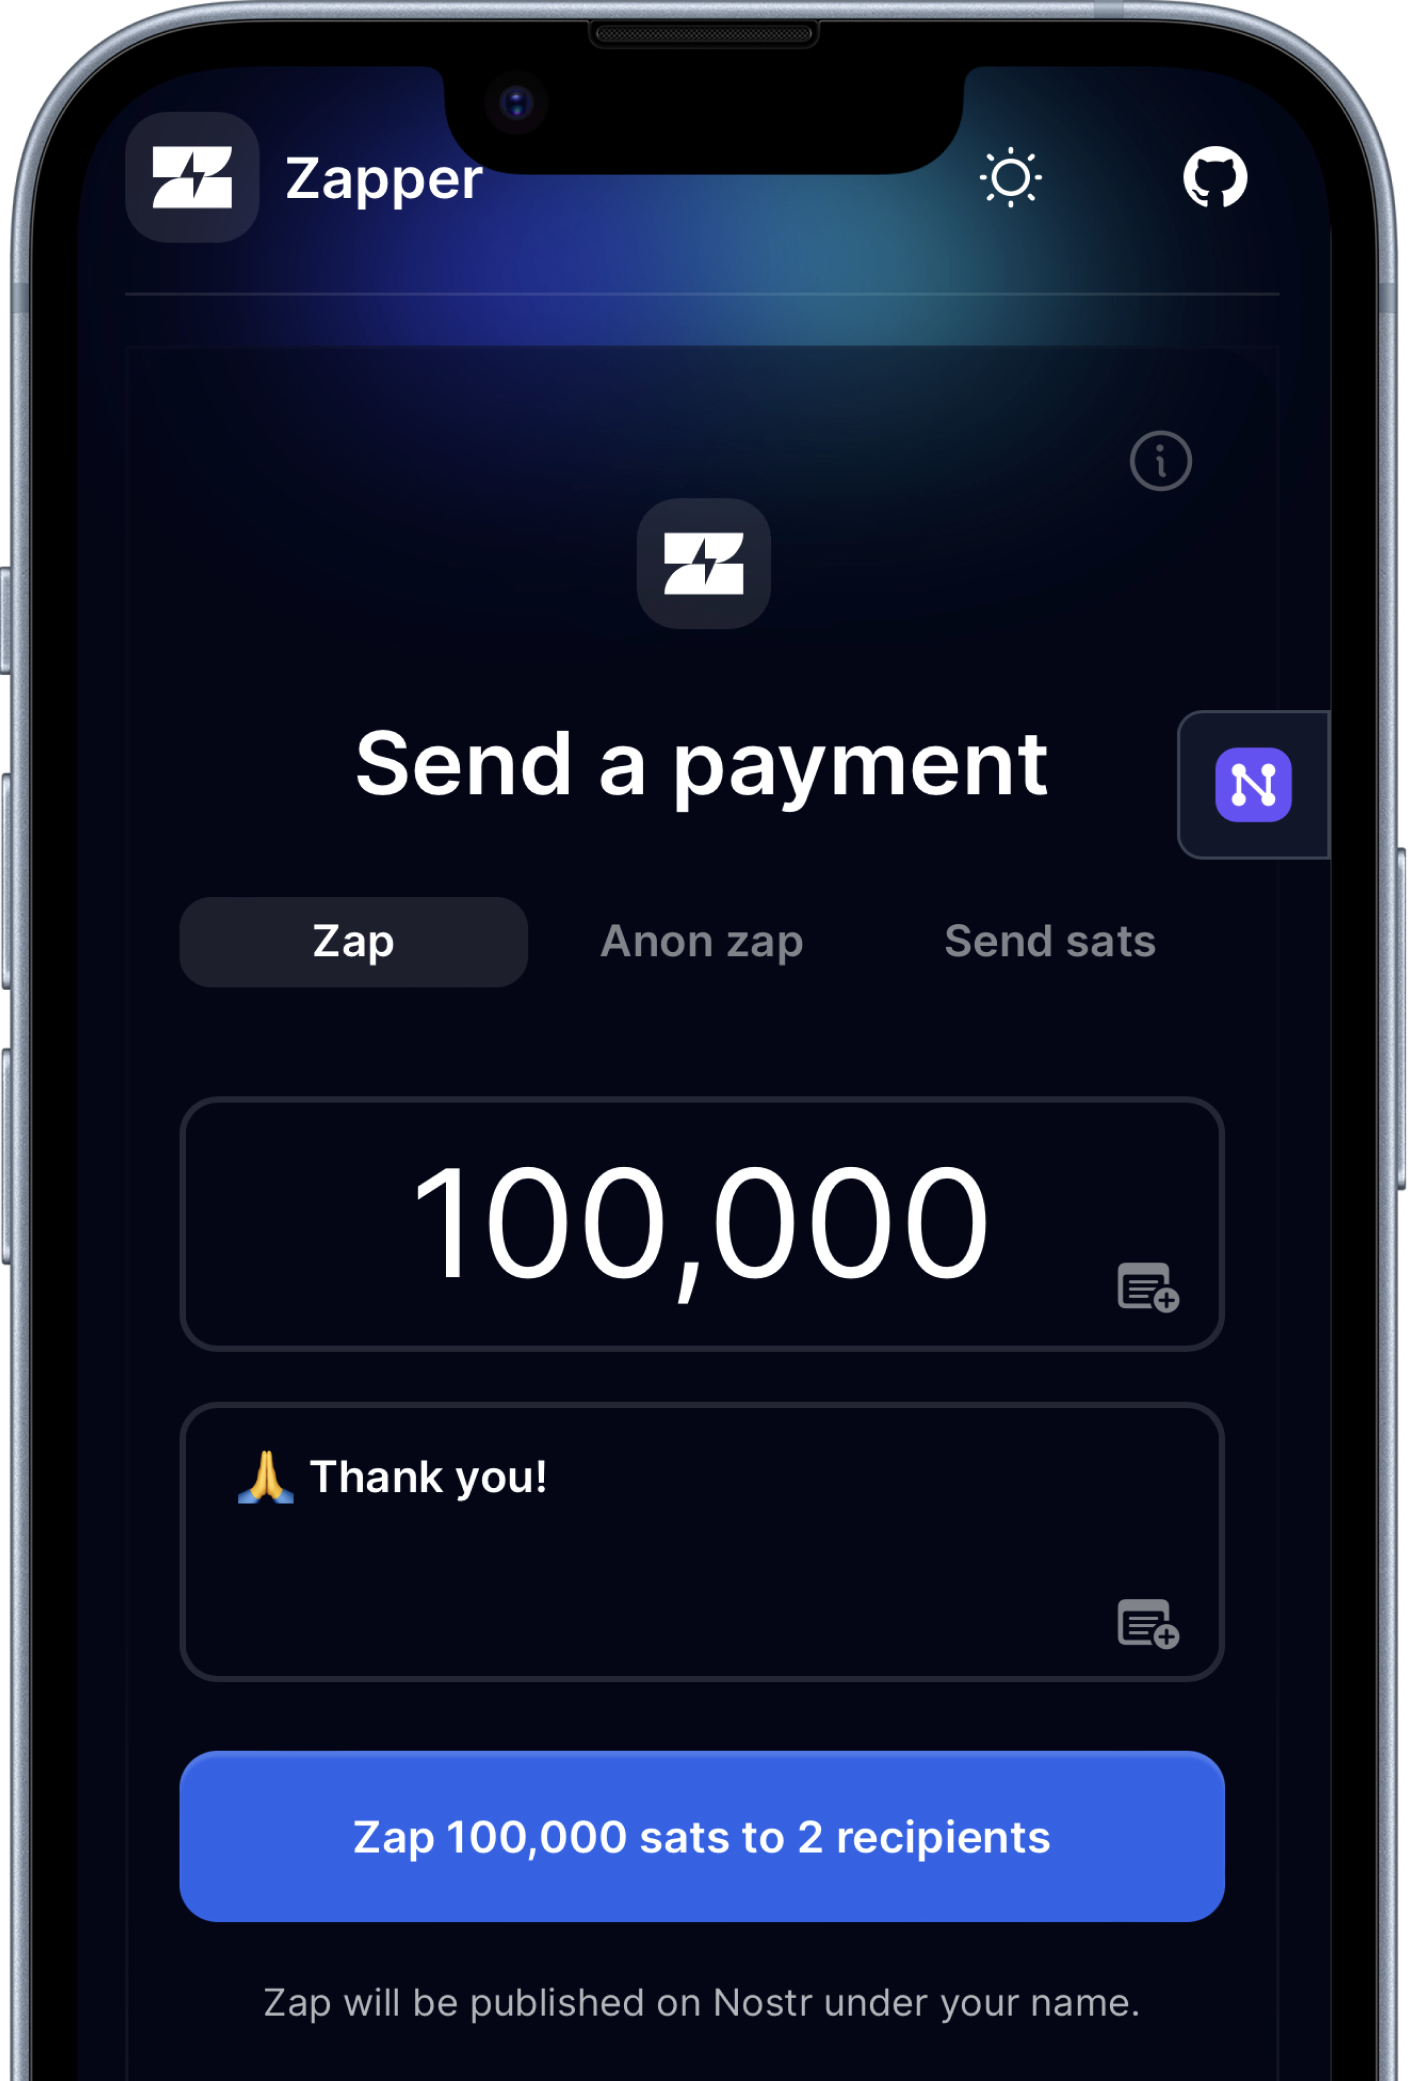
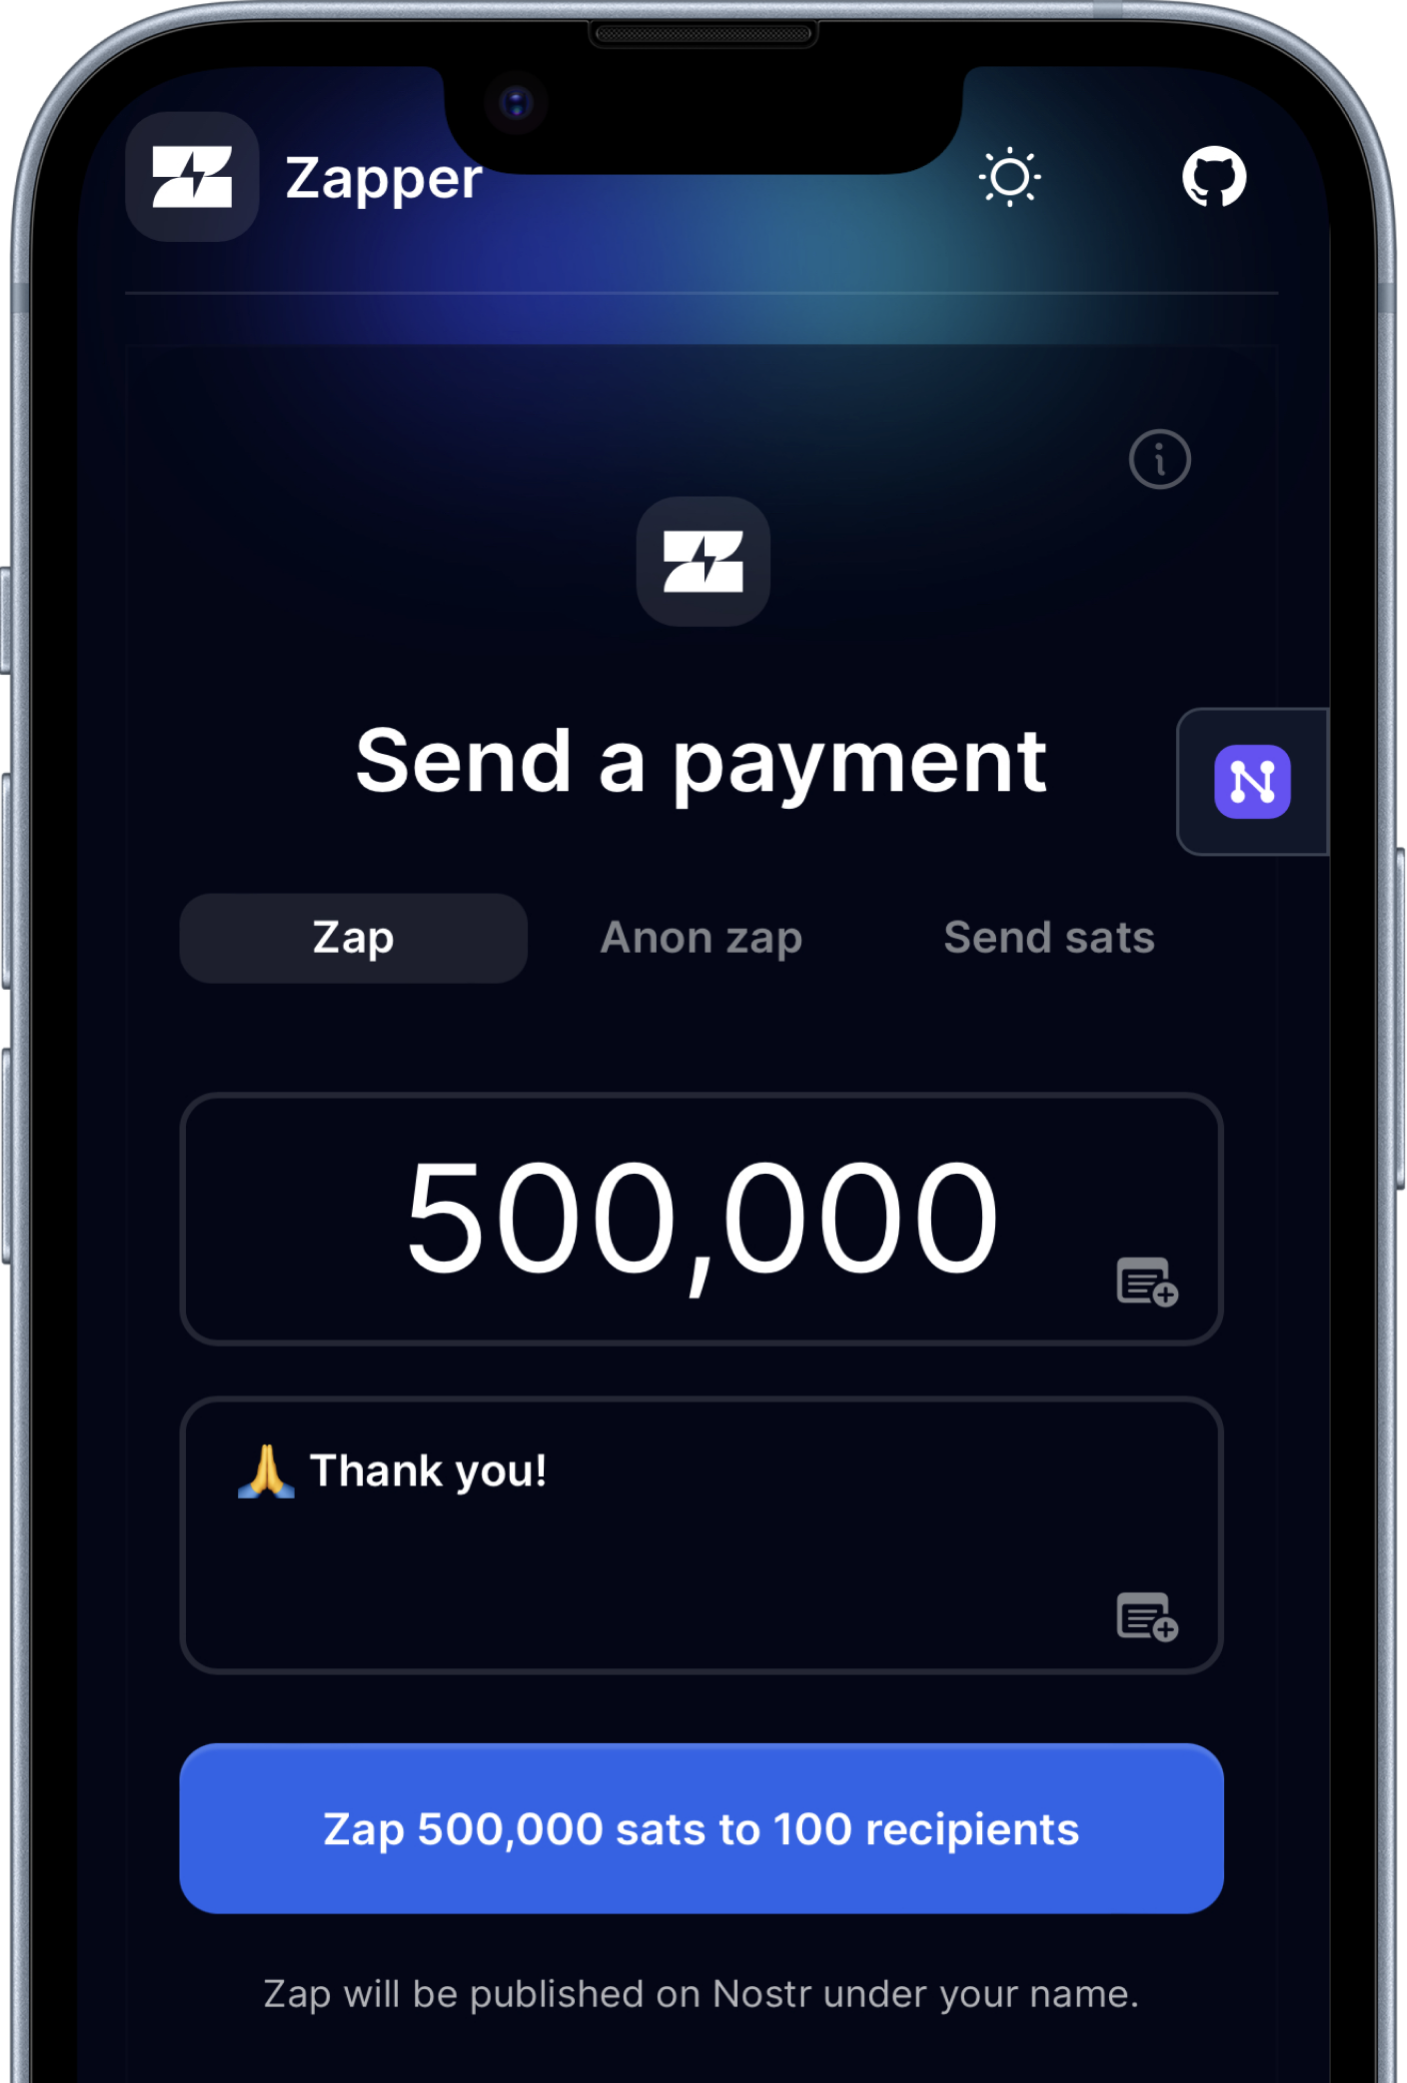
fix nostr-login color mode issue on page refresh, replace zapper mockups, style changes in hero section

diff --git a/src/pages/Main/Root.js b/src/pages/Main/Root.js
@@ -1,19 +1,20 @@
+import { Stack } from '@mui/material'
 import { Hero } from './components/Hero'
 import { Features } from './components/Features'
-// import { NewZap } from './components/NewZap'
 import { Container } from './styled'
 import { Support } from './components/Support'
 import { Zap } from './components/Zap'
 
 function Root() {
    return (
-      <Container id="container">
+      <Stack gap="1rem">
          <Hero />
-         <Zap />
-         <Features />
-         <Support />
-         {/* <NewZap /> */}
-      </Container>
+         <Container>
+            <Zap />
+            <Features />
+            <Support />
+         </Container>
+      </Stack>
    )
 }
 

diff --git a/src/store/ColorMode.Context.js b/src/store/ColorMode.Context.js
@@ -1,4 +1,4 @@
-import React, { useMemo } from 'react'
+import React, { useEffect, useMemo } from 'react'
 import { useMediaQuery } from '@mui/material'
 import { useLocalStorage } from '@uidotdev/usehooks'
 
@@ -12,6 +12,13 @@ const ColorModeContextProvider = ({ children }) => {
    const systemMode = prefersDarkMode ? 'dark' : 'light'
 
    const [mode, setMode] = useLocalStorage('colorMode', systemMode)
+
+   useEffect(() => {
+      // switch nostr-login too
+      document.dispatchEvent(
+         new CustomEvent('nlDarkMode', { detail: mode === 'dark' })
+      )
+   }, [mode])
 
    const contextValues = useMemo(
       () => ({

diff --git a/src/pages/Main/styled.jsx b/src/pages/Main/styled.jsx
@@ -3,8 +3,10 @@ import { Stack, styled } from '@mui/material'
 export const Container = styled(Stack)(() => ({
    width: '100%',
    gap: '6rem',
+   marginBottom: '3rem',
    '@media screen and (max-width: 485px)': {
       fontSize: '1.75rem',
-      gap: '4rem',
+      gap: '3rem',
+      marginBottom: '1.5rem',
    },
 }))

diff --git a/src/pages/Main/components/Hero/styled.jsx b/src/pages/Main/components/Hero/styled.jsx
@@ -8,9 +8,9 @@ export const Container = styled(Stack)(() => ({
    position: 'relative',
    width: '100%',
    height: '100vh',
-   maxHeight: '450px',
+   maxHeight: '425px',
    '@media screen and (max-width: 485px)': {
-      maxHeight: '400px',
+      maxHeight: '325px',
       gap: '1.5rem',
    },
 }))

diff --git a/src/layout/components/Header/index.js b/src/layout/components/Header/index.js
@@ -15,10 +15,6 @@ export const Header = () => {
 
    const handleToggleColorMode = () => {
       toggleColorMode()
-      // switch nostr-login too
-      document.dispatchEvent(
-         new CustomEvent('nlDarkMode', { detail: !darkMode })
-      )
    }
 
    return (
